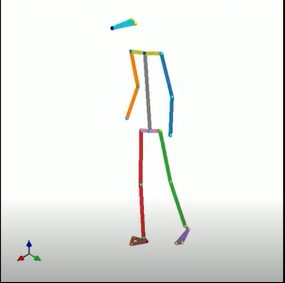
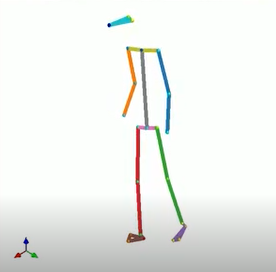
try again

Changed region(s): [[0.4348, 0.1471, 0.6957, 0.9118], [0.0, 0.0, 1.0, 1.0], [0.3768, 0.0588, 0.4928, 0.1176]]

diff --git a/_portfolio/ml-gait-stimulation.md b/_portfolio/ml-gait-stimulation.md
@@ -8,7 +8,7 @@ collection: portfolio
 
 # Machine Learning Based Electrical Stimulation to Assist Neurological Patients' Gait
 
-<img style='float: left;' src='/images/3d.PNG' width='400' height='400'/>
+<img style='float: left;' src='/images/3d.PNG' width='150' height='150'/>
 
 [Evolution Devices](https://www.evolutiondevices.com/) is a company in Berkeley, CA, which uses Functional Electrical Stimulation to assist walking in patients of neurological conditions such as stroke and MS. The EvoWalk device is a smart wearable device which is unobtrusive and can wirelessly track motion data and adjust stimulation, and is backed by partners such as the NSF and Toyota Mobility Foundation. 
 
@@ -16,4 +16,4 @@ In conjunction with Evolution and UC Berkeley, I led a team of graduate students
 
 Our project brief can be seen [here](/files/ML Gait Stimulation.pdf). 
 
-<img src='/images/ourangles.png' width='600' height='600'/>
+<img src='/images/ourangles.png' width='1000' height='800'/>

diff --git a/_pages/aboutme.md b/_pages/aboutme.md
@@ -27,4 +27,4 @@ Travel
 
 I have lived in several places, with my family or for work, school, or internships. Moving around a lot as a kid helped develop my love to travel, whcih I satisfy with everything rom road trips to hiking to backpacking. I haven't been to nearly enough national parks, hostels, or continents, but I've made a start and will try to whittle down the list every chance I can. Here you can see a mainly complete list of all the places I have lived for at least a few months, places I have visited for more than just passing through in green, and the stars showing the places on my bucket list:
 
-<iframe src="https://www.google.com/maps/d/u/0/embed?mid=1crg7ZfNmAYioInHC3oSDO4X8gk33ixl-" width="100%" height="60%"></iframe>
+<iframe src="https://www.google.com/maps/d/u/0/embed?mid=1crg7ZfNmAYioInHC3oSDO4X8gk33ixl-" width="100%" height="100%"></iframe>

diff --git a/_pages/about.md b/_pages/about.md
@@ -19,7 +19,7 @@ redirect_from:
 
 <!-- <img src="/images/berk.jpg" width="100%" height="25%"/>  -->
 
-<img src="/images/berk.jpg" width="100%" height="5%"/> 
+<img src="/images/berk.jpg" width="100%" height="100%"/> 
 
 
 Welcome to my personal website. Here you can find some information about me below, or head over to my CV or Portfolio to check out some of my projects. If you wish to connect with me, my email and LinkedIn are over on the sidebar, feel free to drop me a note!
